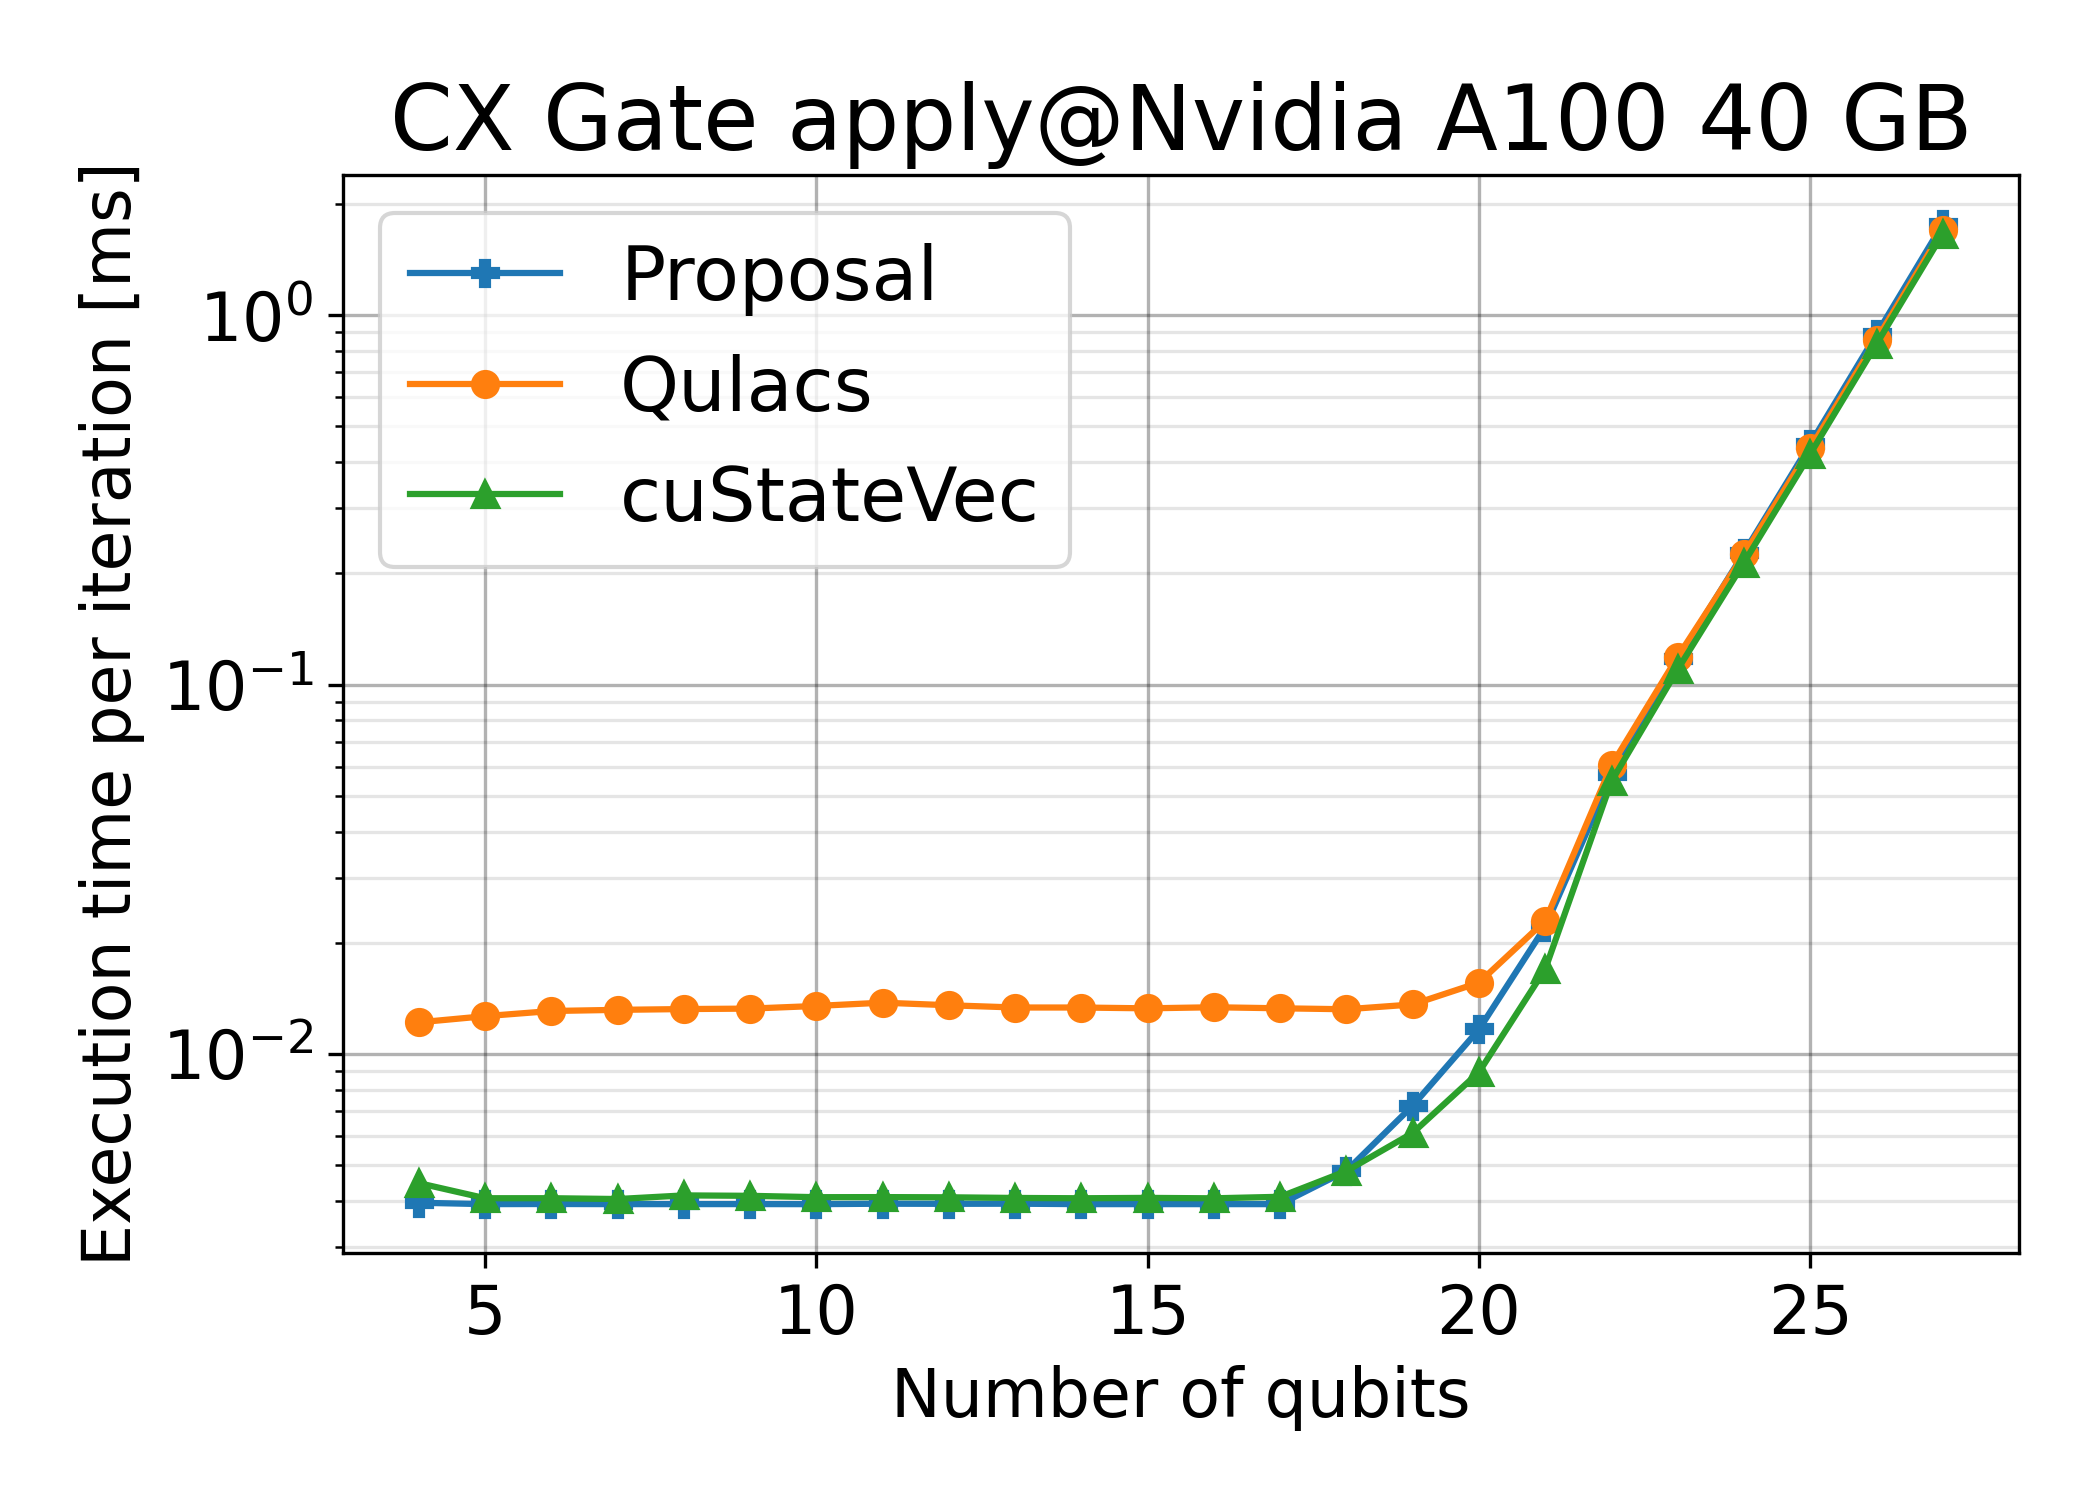
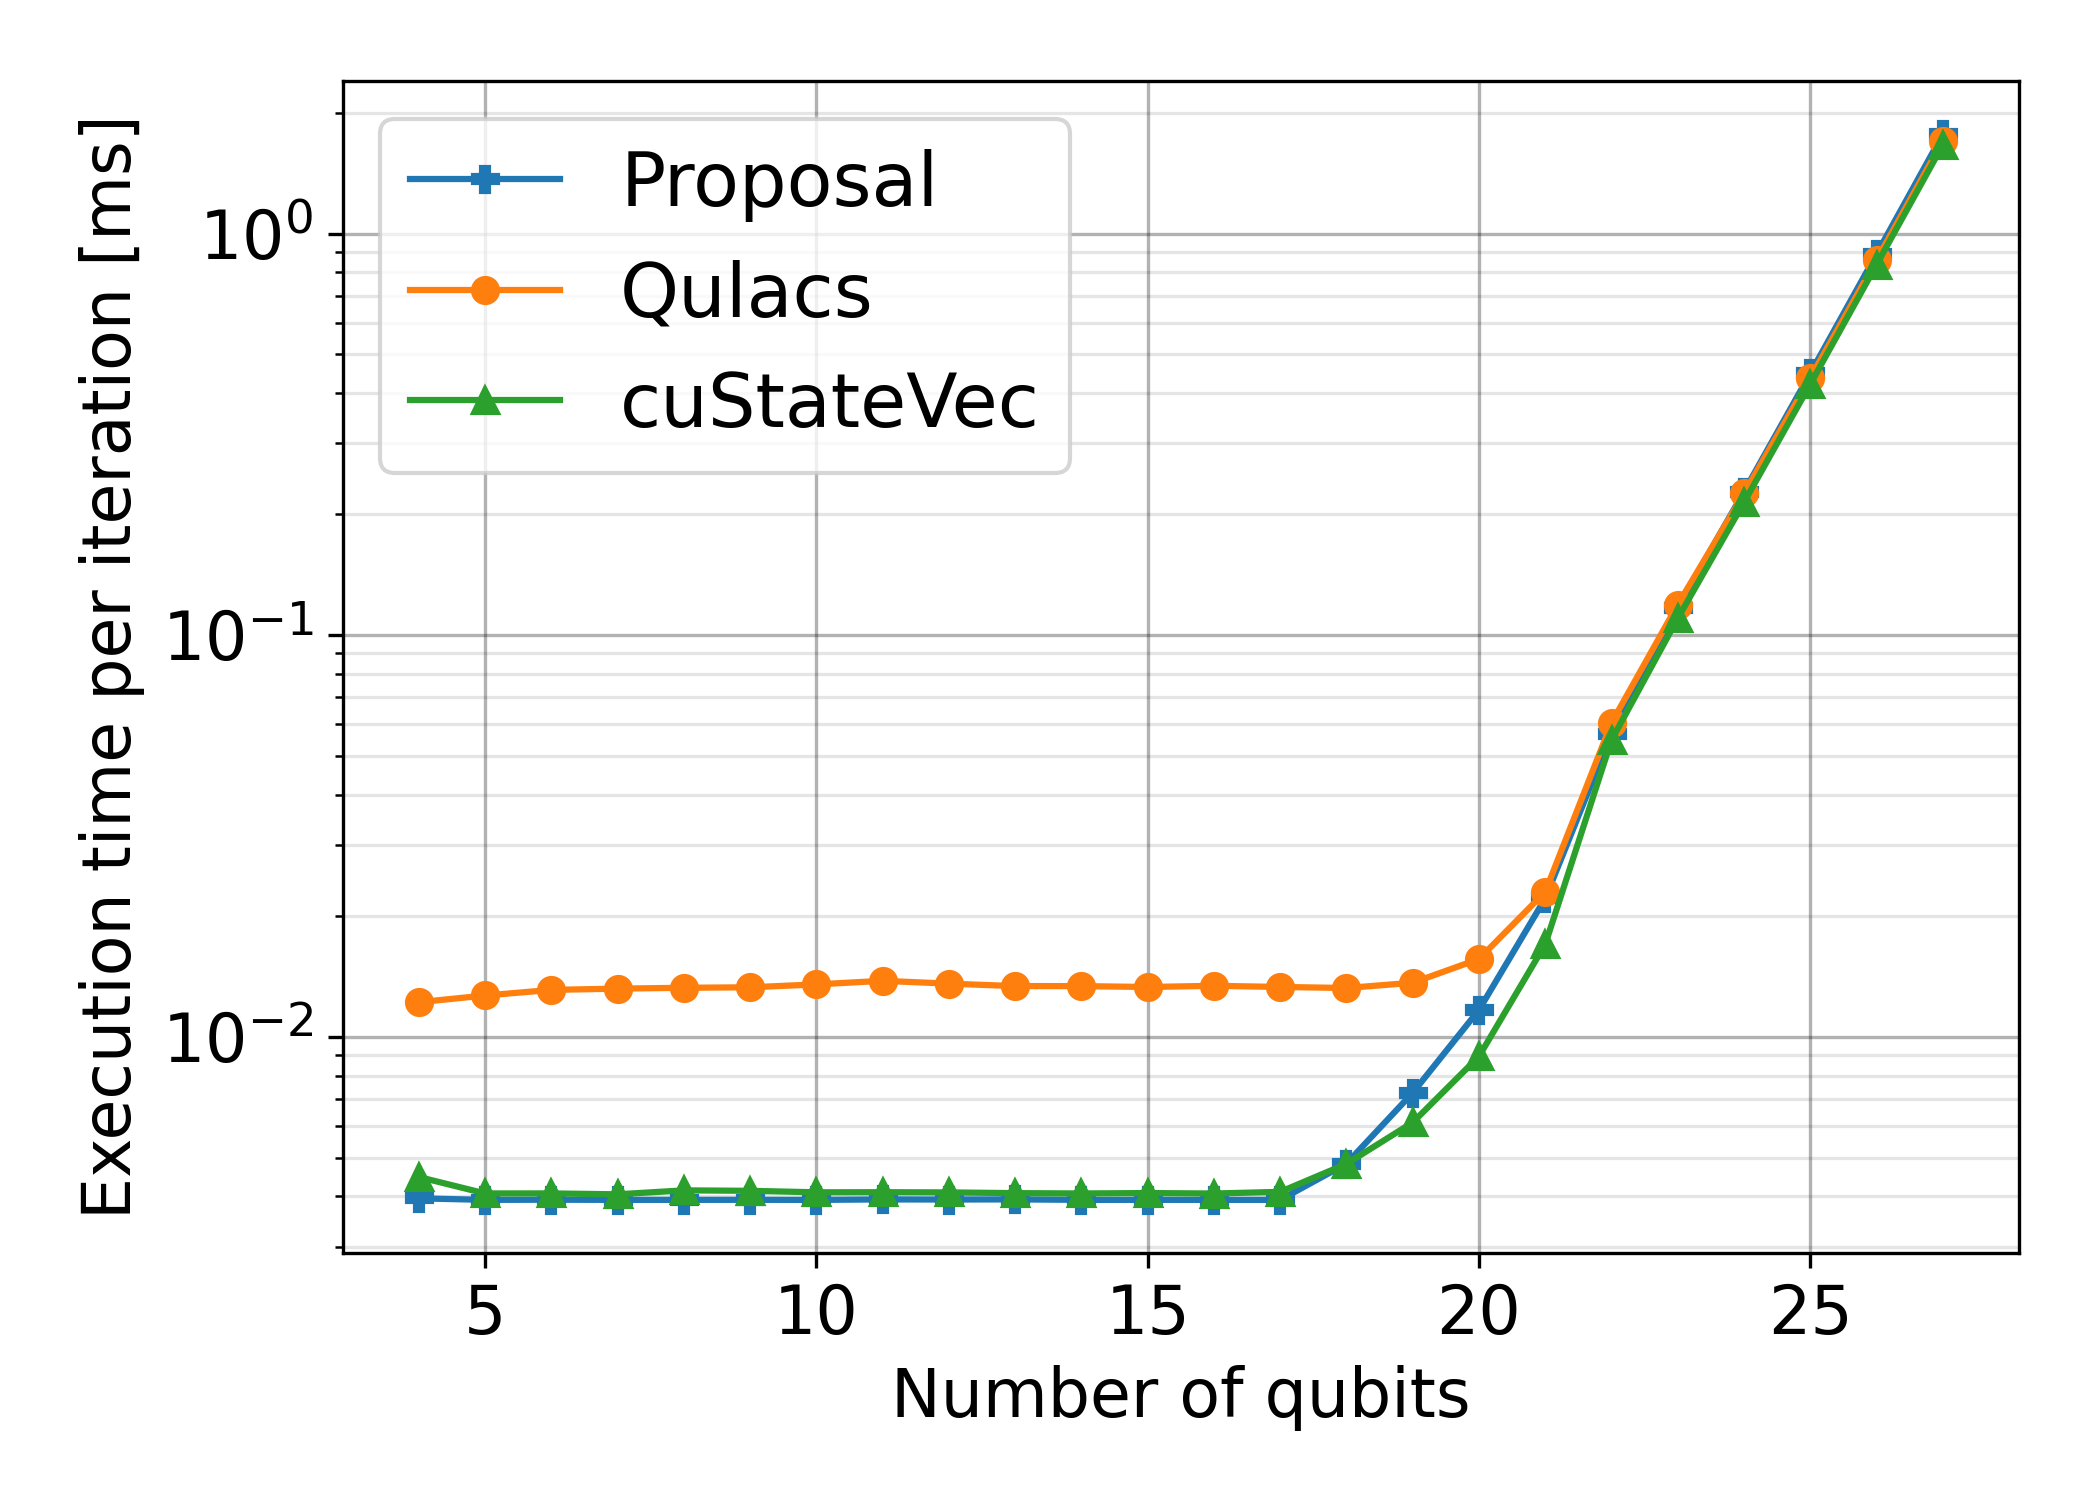
removetitle

Changed region(s): [[0.031, 0.0307, 0.9595, 0.8587]]

diff --git a/benchmark/single-gate/gpu/plot.py b/benchmark/single-gate/gpu/plot.py
@@ -69,7 +69,7 @@ def plot(dat, group):
             cid = libnames.index(name)
         plt.plot(xs, ys, label=name, c=cmap(cid), linestyle=linestyle, marker=markers[cid])
 
-    plt.title(f"{group} Gate apply@Nvidia A100 40 GB")
+    #plt.title(f"{group} Gate apply@Nvidia A100 40 GB")
     plt.yscale("log")
     plt.grid(which='major', color='black', linestyle='-', alpha=0.3)
     plt.grid(which='minor', color='black', linestyle='-', alpha=0.1)